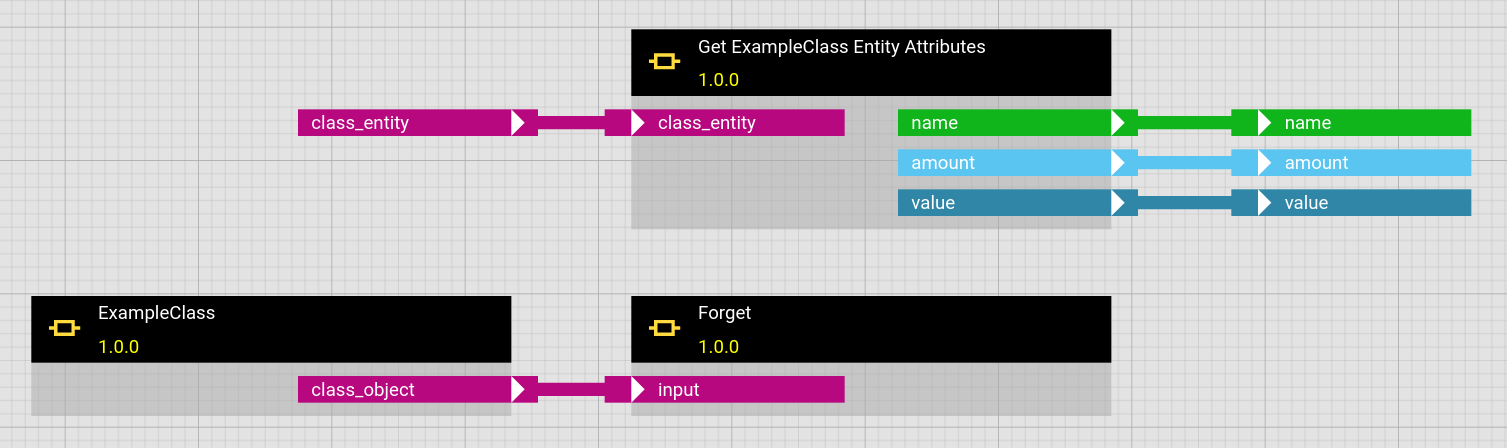
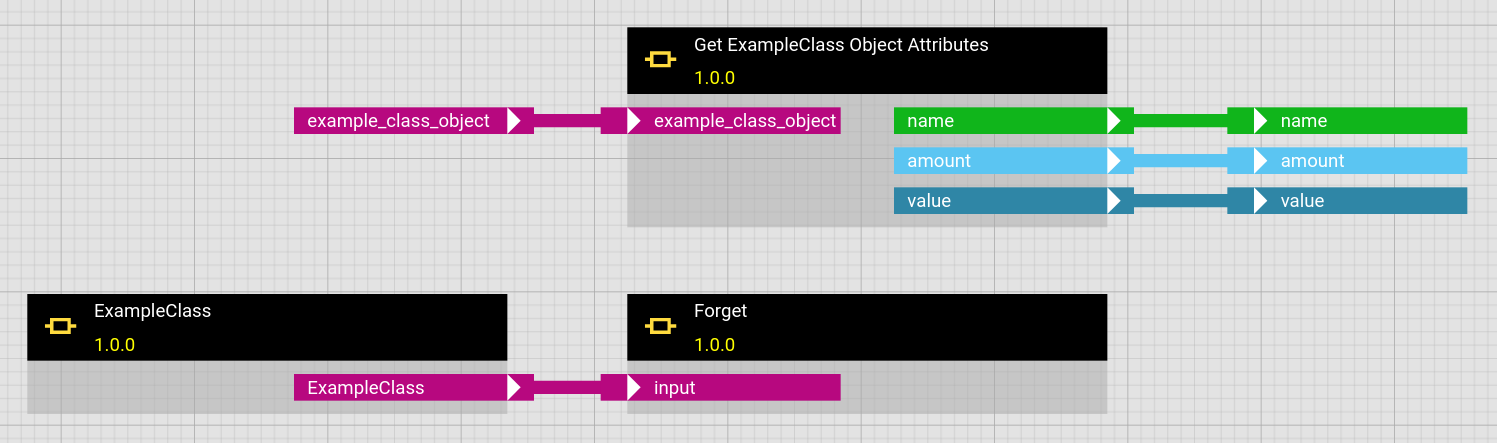
update documentation

diff --git a/docs/adapter_system/blob_storage_adapter.md b/docs/adapter_system/blob_storage_adapter.md
@@ -10,9 +10,16 @@ This section explains how to make blob storage available via the blob storage ad
 
 ### Mounting the adapter hierarchy configuration
 
-The S3 data model is flat, consisting only of buckets in which objects can be stored. There is no hierarchy of sub-buckets of sub-folders. The blob storage adapter can infer a more complex hierarchical structure to increase  by using delimiters. Hyphens `-` are used as delimiters in bucket names and slashes `/` are used as delimiters within object keys to mimic the paths to files in nested folders. Some tools for S3 blob storages can infer hierarchy in the user interface from object keys with such delimiters.
+The S3 data model is flat, consisting only of buckets in which objects can be stored.
+There is no hierarchy of sub-buckets of sub-folders.
+The blob storage adapter can infer a more complex hierarchical structure by using delimiters.
+Hyphens `-` are used as delimiters in bucket names, and slashes `/` are used as delimiters within object keys to mimic paths to files in nested folders.
+Some tools for S3 blob storages can infer hierarchy in the user interface from object keys with such delimiters.
 
-The blob storage adapter offers resources from blob storage in a hierarchical structure. This hierarchy is defined in a file named `blob_storage_adapter_hierarchy.json` which needs to be available to the runtime service and is loaded at startup. E.g. a demo hierarchy can be mounted in the docker-compose setup as follows:
+The blob storage adapter offers resources from the blob storage in a hierarchical structure.
+This hierarchy is defined in a file named `blob_storage_adapter_hierarchy.json` which must be available to the runtime service and is loaded at startup.
+For example, a demo hierarchy can be mounted in the docker-compose setup as follows:
+
 ```yaml
   hetida-designer-runtime:
     ...
@@ -57,9 +64,9 @@ This [file](../../runtime/demodata/blob_storage_adapter_hierarchy.json) contains
 
 The names for the hierarchy nodes should consist only of alphanumeric upper and lower case letters without spaces, because they are interpreted as parts of the bucket names and object keys. Since bucket names cannot contain uppercase letters, the hierarchy node names are converted to lowercase when the corresponding bucket names are generated. When naming hierarchy nodes, note that bucket names must consist of a minimum of 3 and a maximum of 63 characters.
 
-The attribute `below_structure_defines_object_key` is per default `false`.
-If it is not set, only the name of the hierarchy end nodes are considered as part of the object key and the names of all higher hierarchy nodes are considered as part of the bucket name.
-Setting this attribute to `true` means that the names of all deeper hierarchy nodes are considered as part of the object key.
+The `below_structure_defines_object_key` attribute is `false` by default.
+If it is not set, only the names of the hierarchy end nodes are used as prefix of the object key, which is supplemented by the respective creation time stamp, and the bucket name is composed of the names of all higher hierarchy nodes.
+If this attribute is set to "true" for a hierarchy node, the names of all lower hierarchy nodes are used as prefix of the object key.
 
 The buckets defined by the adapter structure must already be present in the blob storage. For the example adapter hierarchy these would be buckets with the following names:
 * `planta-picklingunit`
@@ -82,9 +89,10 @@ The blob storage adapter is configured by the following environment variables:
 * BLOB_STORAGE_ENDPOINT_URL
 * BLOB_STORAGE_REGION_NAME
 
-The `BLOB_STORAGE_REGION_NAME` default value is "eu-central-1".
+The environment variable `BLOB_STORAGE_REGION_NAME` should be set to the region name matching your blob storage setup.
+Its default value is "eu-central-1".
 The environment variable  `BLOB_STORAGE_ACCESS_DURATION` is used to set the [request parameter](https://docs.aws.amazon.com/STS/latest/APIReference/API_AssumeRoleWithWebIdentity.html#API_AssumeRoleWithWebIdentity_RequestParameters) `DurationSeconds` in the authentication towards the blob storage.
-It sets the duration of the role session in seconds and must be in the range of 900 (15 min) and the maximum session duration setting for the role.
+It sets the duration of the role session in seconds and must be in the range between 900 (15 min) and the maximum session duration setting for the role.
 Its default value is 3600 (1 hour).
 
 An example using a minio instance as blob storage provider:
@@ -111,14 +119,12 @@ The `dump` and `load` methods of the Python package `joblib` are used to seriali
 
 ### Basic Usage
 
-The workflows "Get ExampleClass Entity Attributes" and "Create ExampleClass Entity" provide a minimal example of how objects with a self defined class can be stored and loaded.
+The workflows "Get ExampleClass Object Attributes" and "Create ExampleClass Object" provide a minimal example of how objects with a self defined class can be stored and loaded.
 
 Selecting "Blob Storage Adapter" for an input in the Execution dialog sources should be available for all objects for which bucket name and object key match the adapter hierarchy:
 
-<img src="./assets/blob_storage_adapter_selected.png" height="100" width=450>
-
-<img src="./assets/blob_storage_adapter_assign_source.png" height="780" width=700>
+<img src="./assets/blob_storage_adapter_assign_source.png" height="630" width=530 data-align="center">
 
 Similarly a sink should be available for each end node in the hierarchy via selecting "Blob Storage Adapter" for an output in the Execution dialog:
 
-<img src="./assets/blob_storage_adapter_assign_sink.png" height="780" width=700>
+<img src="./assets/blob_storage_adapter_assign_sink.png" height="630" width=530 data-align="center">

diff --git a/docs/faq.md b/docs/faq.md
@@ -87,41 +87,42 @@ So the general tip is to avoid ANY as input that needs to be wired and instead t
 
 ## Storing and loading objects with self defined classes
 When combining self-defined classes with storing and loading objects, e.g. via the [Blob Storage Adapter](./adapter_system/blob_storage_adapter.md), the classes must be defined in seperate components.
-The component that contains such a class, should just return the class object as i.e. in the component "ExampleClass" from the category "Classes". 
+The component that contains such a class, should just return the class as i.e. in the component "ExampleClass" from the category "Classes". 
 ```python
 
 class ExampleClass:
     ...
 return {"class _object": ExampleClass}
 ```
-A component in which an instance of this class is created should take this class object as an input.
+A component in which an instance of this class is created should take this class as an input.
 For better readability it is recommended to name the input just as the class, but it may as well be named differently.
 ```python
 ...
-def main(*, class_object, ...)
+def main(*, ExampleClass, ...)
 	...
-	entity = class_object(...)
+	example_class_object = ExampleClass(...)
 	...
 ```
-When such an entity is stored the import location of the class definition will be represented by a hash.
-Hence, when loading the stored object in a worklfow the exactly same component must be contained in this workflow.
-<img src="./assets/store_object_with_class.png" height="250" width=750 data-align="center">
+When loading the stored object in a worklfow the exactly same component must be contained in this workflow to ensure that the class is imported correctly.
+
+<img src="./assets/store_object_with_class.png" height="150" width=750 data-align="center">
+
 Usually the class is not needed explicitly so that the there is no reason to link the component with the class definition to any input, instead it can be linked to the component "Forget" from the category "Connectors".
-<img src="./assets/load_object_with_class.png" height="250" width=750 data-align="center">
+
+<img src="./assets/load_object_with_class.png" height="225" width=750 data-align="center">
 
 
 ## Identifiy source for latest stored object via endpoints
 The [Blob Storage Adapter](./adapter_system/blob_storage_adapter.md) adds the storage timestamp to the name of each stored object and automatically creates a new source corresponding to that object.
 
 A request to the [/structure endpoint (GET)](./adapter_system/generic_rest_adapters/web_service_interface.md#structure-endpoint-get) with the `ref_id` as `parentId` path parameter will return a list of all thing nodes, sources and sinks below the thingnode with the id `parentId` as a response.
-The source list is sorted in ascending order so that the last list item is the source corresponding to the last object saved.
 ```json
 {
-	"id": "planta-picklingunit/InfluxAnomalies_2023-02-14T12:19:38+00:00",
-	"thingNodeId": "planta-picklingunit/InfluxAnomalies",
-	"name": "InfluxAnomalies - 2023-02-14 12:19:38+00:00",
-	"path": "planta-picklingunit/InfluxAnomalies",
-	"metadataKey": "InfluxAnomalies - 2023-02-14 12:19:38+00:00"
+	"id": "planta-picklingunit/Influx/Anomalies_2023-02-14T12:19:38+00:00",
+	"thingNodeId": "planta-picklingunit/Influx/Anomalies",
+	"name": "Anomalies - 2023-02-14 12:19:38+00:00",
+	"path": "planta-picklingunit/Influx/Anomalies",
+	"metadataKey": "Anomalies - 2023-02-14 12:19:38+00:00"
 }
 ```
 
@@ -130,10 +131,10 @@ The attributes `ref_id` and `ref_key` of the corresponding input wiring must be 
 {
 	"adapter_id": "blob-storage-adapter",
 	"filters": {},
-	"ref_id": "planta-picklingunit/InfluxAnomalies",
+	"ref_id": "planta-picklingunit/Influx/Anomalies",
 	"ref_id_type": "THINGNODE",
-	"ref_key": "InfluxAnomalies - 2023-02-14 12:19:38+00:00",
+	"ref_key": "Anomalies - 2023-02-14 12:19:38+00:00",
 	"type": "metadata(any)",
-	"workflow_input_name": "class_entity"
+	"workflow_input_name": "example_class_object"
 }
 ```
